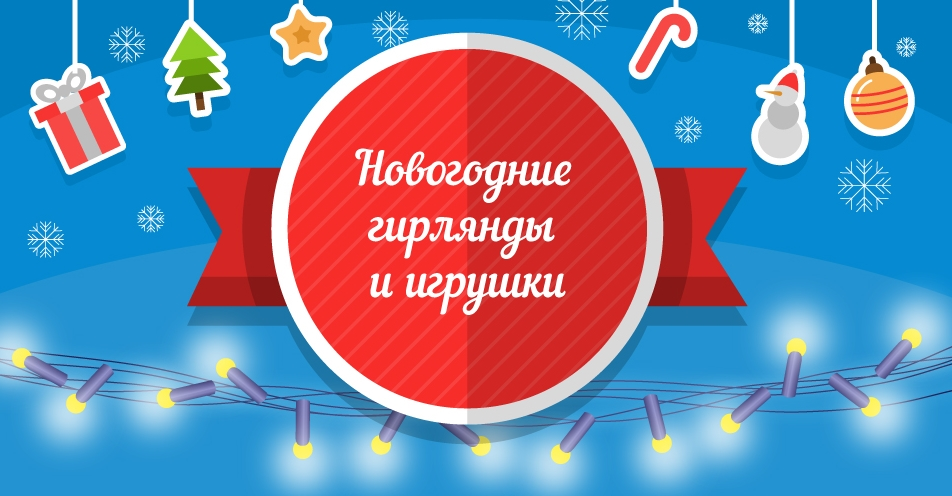
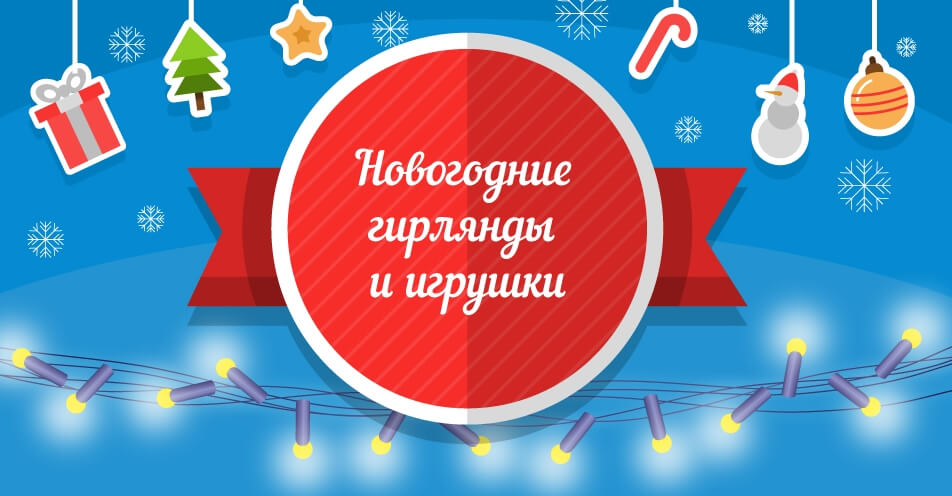
FF excel borders (#85)
* [FF] Fix corrupted styles in excel price

* [FF] Fix dockerignore file

* [FF] Compress banners

diff --git a/shopelectro/management/commands/excel.py b/shopelectro/management/commands/excel.py
@@ -1,8 +1,14 @@
-"""Management command for generating Excel price-list."""
+"""
+Generate Excel price-list.
 
-import os
+Uses this excel editor lib:
+https://openpyxl.readthedocs.io/en/default/
+"""
+
 import datetime
+import os
 import openpyxl
+from collections import namedtuple
 from openpyxl.styles import Font
 from openpyxl.styles.colors import BLUE
 from openpyxl.styles.borders import Border, Side
@@ -35,6 +41,8 @@ class Command(BaseCommand):
         left=Side(style='thin')
     )
     CURRENT_ROW = '9'  # Start of catalog section in file.
+    cell = namedtuple('cell', ['row', 'col'])
+    BAD_STYLED_CELLS = cell(5, 3), cell(5, 4), cell(6, 3), cell(6, 8)
 
     def __init__(self, *args, **kwargs):
         super(Command, self).__init__(*args, **kwargs)
@@ -47,8 +55,15 @@ class Command(BaseCommand):
         self.fill_header()
         self.write_catalog()
         self.hide_formulas()
+        self.set_styles()
         base_dir = settings.ASSETS_DIR
         self.file.save(os.path.join(base_dir, self.NAME))
+
+    def set_styles(self):
+        for cell_position in self.BAD_STYLED_CELLS:
+            cell = self.sheet.cell(
+                row=cell_position.row, column=cell_position.col)
+            cell.border = self.THIN_BORDER
 
     def set_collapse_controls(self):
         """
